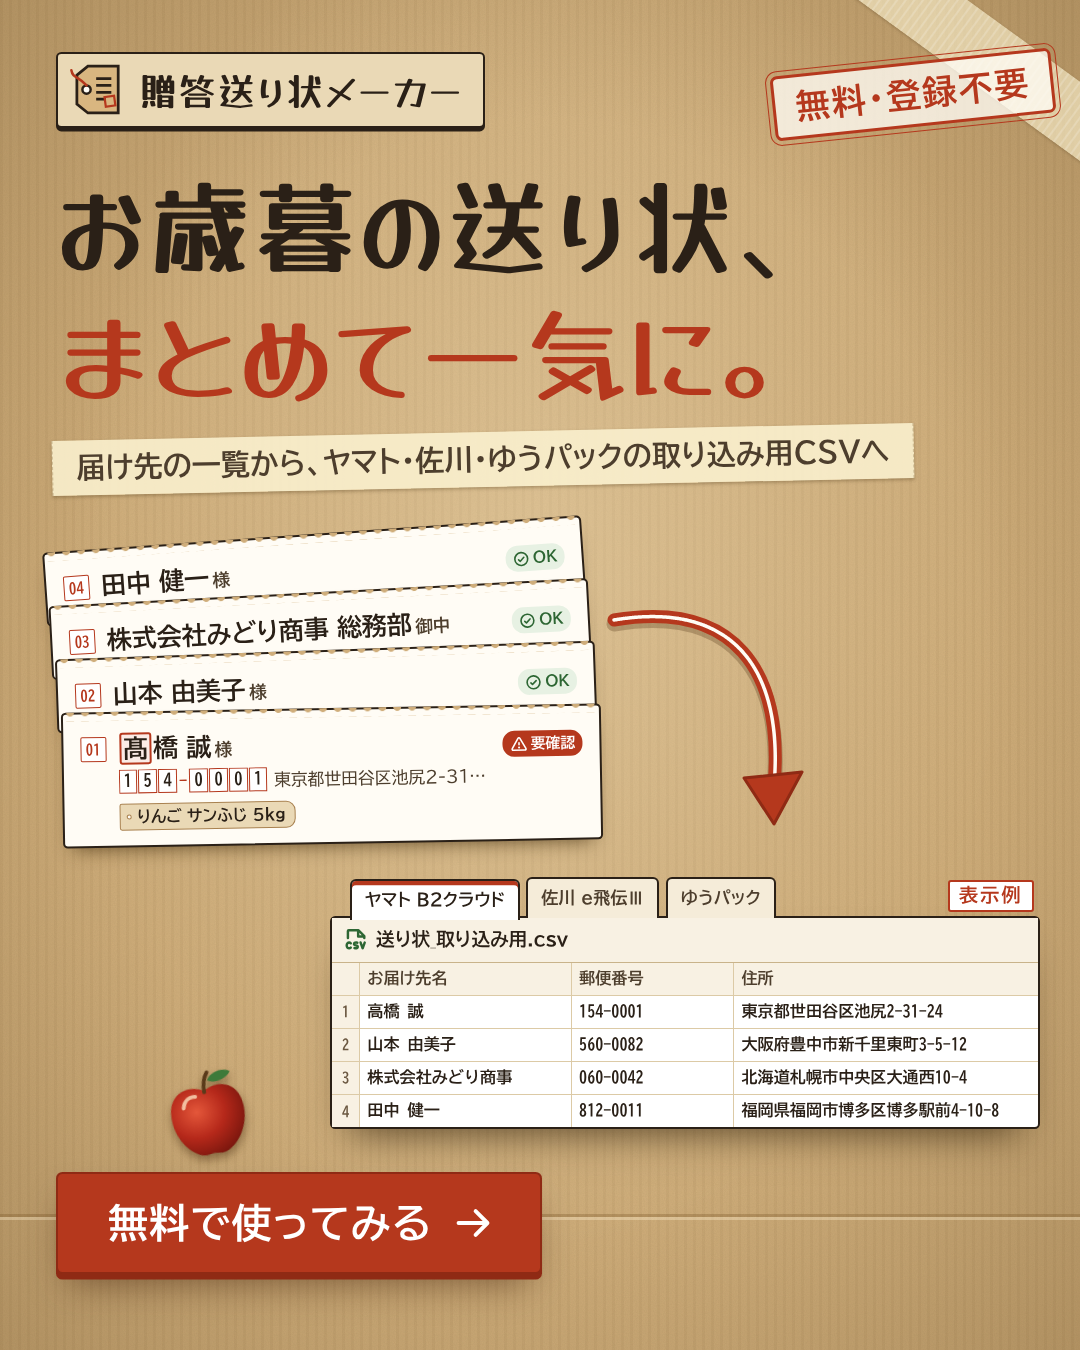
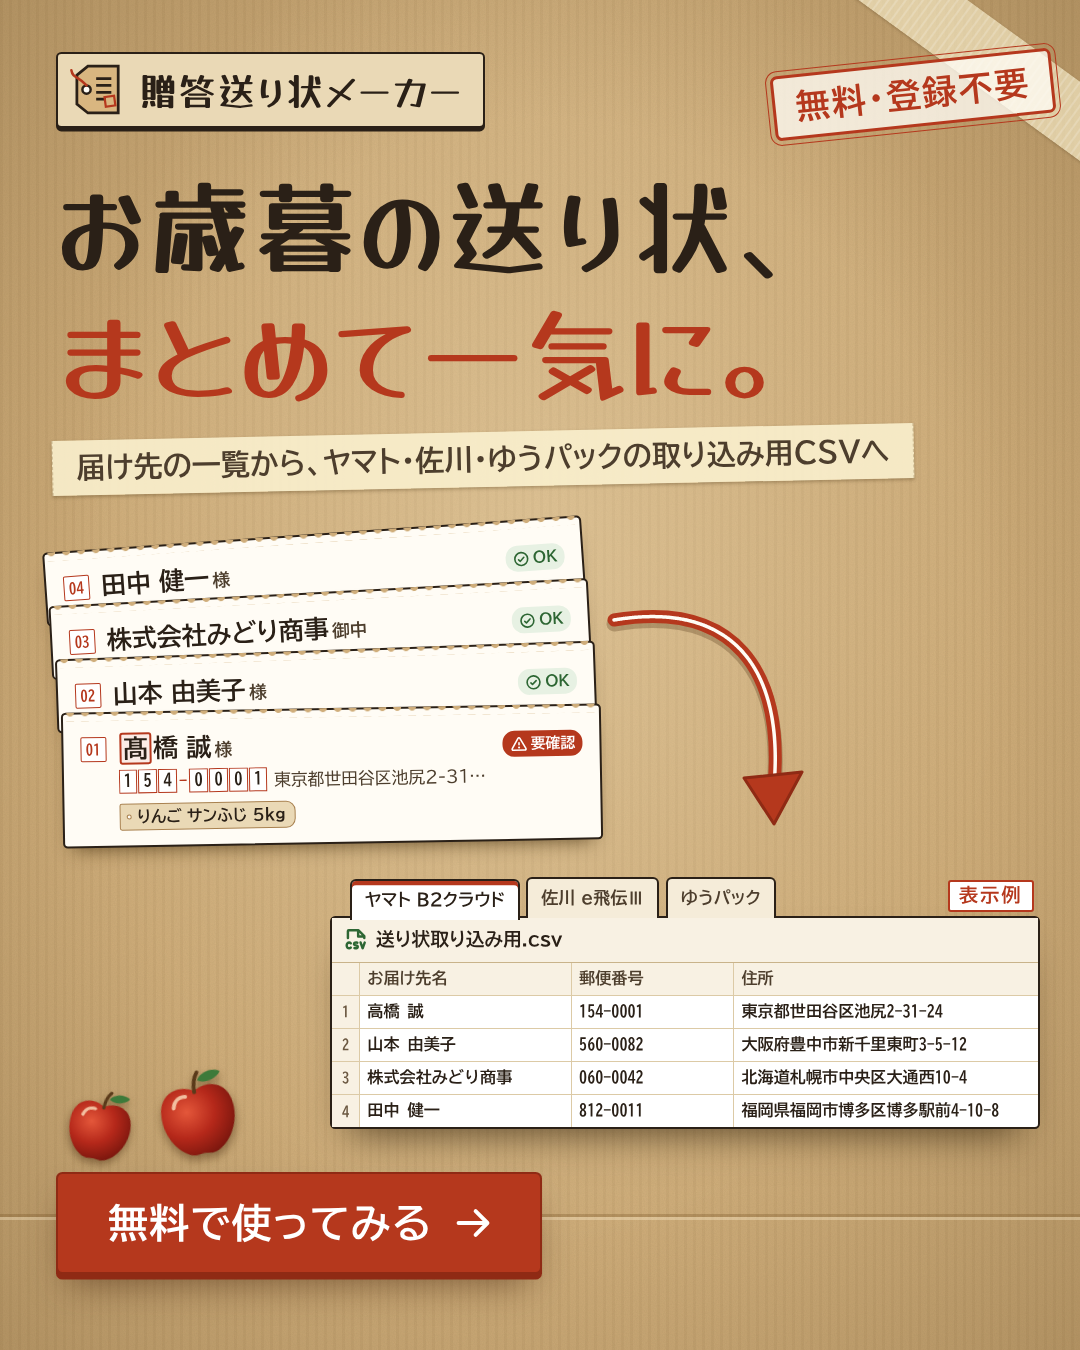
送り状ツールのMeta広告画像（2案×3サイズ）と広告文を仕上げ
Claude-Session: https://claude.ai/code/session_01HfaK55x2ryAqdk16Bxvowi

diff --git a/ads/creatives/src/okurijo-B-feed.html b/ads/creatives/src/okurijo-B-feed.html
@@ -152,7 +152,7 @@ html, body { width: 1080px; height: 1350px; }
   <div><span class="badge ok"><svg class="i" viewBox="0 0 256 256" aria-hidden="true"><path d="M176.49,95.51a12,12,0,0,1,0,17l-56,56a12,12,0,0,1-17,0l-24-24a12,12,0,1,1,17-17L112,143l47.51-47.52A12,12,0,0,1,176.49,95.51ZM236,128A108,108,0,1,1,128,20,108.12,108.12,0,0,1,236,128Zm-24,0a84,84,0,1,0-84,84A84.09,84.09,0,0,0,212,128Z"/></svg>OK</span></div>
 </div><div class="rec" style="left:50px;top:592px;width:540px;font-size:24px;transform:rotate(-3deg);z-index:2;">
   <span class="rno">03</span>
-  <div style="min-width:0"><b class="rname">株式会社みどり商事 総務部<small>御中</small></b>
+  <div style="min-width:0"><b class="rname">株式会社みどり商事<small>御中</small></b>
   
   </div>
   <div><span class="badge ok"><svg class="i" viewBox="0 0 256 256" aria-hidden="true"><path d="M176.49,95.51a12,12,0,0,1,0,17l-56,56a12,12,0,0,1-17,0l-24-24a12,12,0,1,1,17-17L112,143l47.51-47.52A12,12,0,0,1,176.49,95.51ZM236,128A108,108,0,1,1,128,20,108.12,108.12,0,0,1,236,128Zm-24,0a84,84,0,1,0-84,84A84.09,84.09,0,0,0,212,128Z"/></svg>OK</span></div>
@@ -177,11 +177,17 @@ html, body { width: 1080px; height: 1350px; }
 </svg>
 <div class="sheet" style="left:330px;top:916px;width:710px;font-size:26px;">
   <div class="sheet-tabs"><span class="stab on">ヤマト B2クラウド</span><span class="stab">佐川 e飛伝Ⅲ</span><span class="stab">ゆうパック</span></div>
-  <div class="sheet-h"><svg class="i" viewBox="0 0 256 256" aria-hidden="true"><path d="M48,180c0,8.67,5.49,16,12,16a10.27,10.27,0,0,0,7.33-3.43,12,12,0,1,1,17.34,16.6A34,34,0,0,1,60,220C40.15,220,24,202,24,180s16.15-40,36-40a34,34,0,0,1,24.67,10.830,12,12,0,1,1-17.34,16.6A10.27,10.27,0,0,0,60,164C53.49,164,48,171.31,48,180Zm97.51-5.71c-5.13-3.45-11.33-5.24-16.8-6.82a79.5,79.5,0,0,1-7.91-2.59c2.45-1.18,9.71-1.3,16.070.33A12,12,0,0,0,143,142a69.24,69.24,0,0,0-12-1.86c-9.93-.66-18,1.08-24.1,5.17a24.45,24.45,0,0,0-10.69,17.76c-1.1,8.74,2.48,16.27,10.11,21.19,4.78,3.09,10.36,4.7,15.75,6.26,3,.89,7.94,2.3,9.88,3.53a2,2,0,0,1-.22.71c-1.36,1.55-9.57,1.79-16.39-.06a12,12,0,0,0-6.45,23.11A63.73,63.730,0,0,0,125.09,220c6.47,0,13.74-1.17,19.74-5.15a24.73,24.73,0,0,0,10.95-18C157,187.53,153.32,179.53,145.51,174.27ZM216,140.68A12,12,0,0,0,200.7,148L192,172.3,183.3,148A12,12,0,1,0,160.7,156l20,56a12,12,0,0,0,22.6,0l20-56A12,12,0,0,0,216,140.68ZM36,108V40A20,20,0,0,1,56,20h96a12,12,0,0,1,8.49,3.51l56,56A12,12,0,0,1,220,88v20a12,12,0,1,1-24,0v-4H148a12,12,0,0,1-12-12V44H60v64a12,12,0,1,1-24,0ZM160,80h23L160,57Z"/></svg>送り状_取り込み用.csv</div>
+  <div class="sheet-h"><svg class="i" viewBox="0 0 256 256" aria-hidden="true"><path d="M48,180c0,8.67,5.49,16,12,16a10.27,10.27,0,0,0,7.33-3.43,12,12,0,1,1,17.34,16.6A34,34,0,0,1,60,220C40.15,220,24,202,24,180s16.15-40,36-40a34,34,0,0,1,24.67,10.830,12,12,0,1,1-17.34,16.6A10.27,10.27,0,0,0,60,164C53.49,164,48,171.31,48,180Zm97.51-5.71c-5.13-3.45-11.33-5.24-16.8-6.82a79.5,79.5,0,0,1-7.91-2.59c2.45-1.18,9.71-1.3,16.070.33A12,12,0,0,0,143,142a69.24,69.24,0,0,0-12-1.86c-9.93-.66-18,1.08-24.1,5.17a24.45,24.45,0,0,0-10.69,17.76c-1.1,8.74,2.48,16.27,10.11,21.19,4.78,3.09,10.36,4.7,15.75,6.26,3,.89,7.94,2.3,9.88,3.53a2,2,0,0,1-.22.71c-1.36,1.55-9.57,1.79-16.39-.06a12,12,0,0,0-6.45,23.11A63.73,63.730,0,0,0,125.09,220c6.47,0,13.74-1.17,19.74-5.15a24.73,24.73,0,0,0,10.95-18C157,187.53,153.32,179.53,145.51,174.27ZM216,140.68A12,12,0,0,0,200.7,148L192,172.3,183.3,148A12,12,0,1,0,160.7,156l20,56a12,12,0,0,0,22.6,0l20-56A12,12,0,0,0,216,140.68ZM36,108V40A20,20,0,0,1,56,20h96a12,12,0,0,1,8.49,3.51l56,56A12,12,0,0,1,220,88v20a12,12,0,1,1-24,0v-4H148a12,12,0,0,1-12-12V44H60v64a12,12,0,1,1-24,0ZM160,80h23L160,57Z"/></svg>送り状取り込み用.csv</div>
   <table><tr><th class="n" style="width:1.9em"></th><th style="width:30%">お届け先名</th><th style="width:23%">郵便番号</th><th>住所</th></tr><tr><td class="n">1</td><td>高橋 誠</td><td>154-0001</td><td>東京都世田谷区池尻2-31-24</td></tr><tr><td class="n">2</td><td>山本 由美子</td><td>560-0082</td><td>大阪府豊中市新千里東町3-5-12</td></tr><tr><td class="n">3</td><td>株式会社みどり商事</td><td>060-0042</td><td>北海道札幌市中央区大通西10-4</td></tr><tr><td class="n">4</td><td>田中 健一</td><td>812-0011</td><td>福岡県福岡市博多区博多駅前4-10-8</td></tr></table>
 </div>
 <span class="rei" style="left:948px;top:880px">表示例</span>
-<svg class="abs" style="left:160px;top:1066px;width:96px;height:96px;transform:rotate(-10deg);filter:drop-shadow(0 5.76px 4.800000000000001px rgba(60,30,5,.45))" viewBox="0 0 100 100">
+<svg class="abs" style="left:60px;top:1086px;width:80px;height:80px;transform:rotate(12deg);filter:drop-shadow(0 4.8px 4px rgba(60,30,5,.45))" viewBox="0 0 100 100">
+  <defs><radialGradient id="gf0" cx="35%" cy="35%" r="70%"><stop offset="0" stop-color="#e4573a"/><stop offset=".55" stop-color="#b5281a"/><stop offset="1" stop-color="#7d170e"/></radialGradient></defs>
+  <path d="M50 26 C 40 18, 14 18, 12 46 C 10 72, 30 94, 44 92 C 48 91, 52 91, 56 92 C 70 94, 90 72, 88 46 C 86 18, 60 18, 50 26 Z" fill="url(#gf0)"/>
+  <path d="M26 40 C 28 32, 34 29, 40 30" stroke="rgba(255,235,200,.75)" stroke-width="4" fill="none" stroke-linecap="round"/>
+  <path d="M50 27 C 50 18, 52 12, 56 7" stroke="#5a3a1a" stroke-width="4" fill="none" stroke-linecap="round"/>
+  <path d="M55 15 C 62 5, 76 6, 80 10 C 74 18, 62 20, 55 15 Z" fill="#3d7a3a"/>
+</svg><svg class="abs" style="left:150px;top:1066px;width:96px;height:96px;transform:rotate(-10deg);filter:drop-shadow(0 5.76px 4.800000000000001px rgba(60,30,5,.45))" viewBox="0 0 100 100">
   <defs><radialGradient id="gf1" cx="35%" cy="35%" r="70%"><stop offset="0" stop-color="#e4573a"/><stop offset=".55" stop-color="#b5281a"/><stop offset="1" stop-color="#7d170e"/></radialGradient></defs>
   <path d="M50 26 C 40 18, 14 18, 12 46 C 10 72, 30 94, 44 92 C 48 91, 52 91, 56 92 C 70 94, 90 72, 88 46 C 86 18, 60 18, 50 26 Z" fill="url(#gf1)"/>
   <path d="M26 40 C 28 32, 34 29, 40 30" stroke="rgba(255,235,200,.75)" stroke-width="4" fill="none" stroke-linecap="round"/>

diff --git a/ads/creatives/src/okurijo-B-square.html b/ads/creatives/src/okurijo-B-square.html
@@ -151,7 +151,7 @@ html, body { width: 1080px; height: 1080px; }
   <div><span class="badge ok"><svg class="i" viewBox="0 0 256 256" aria-hidden="true"><path d="M176.49,95.51a12,12,0,0,1,0,17l-56,56a12,12,0,0,1-17,0l-24-24a12,12,0,1,1,17-17L112,143l47.51-47.52A12,12,0,0,1,176.49,95.51ZM236,128A108,108,0,1,1,128,20,108.12,108.12,0,0,1,236,128Zm-24,0a84,84,0,1,0-84,84A84.09,84.09,0,0,0,212,128Z"/></svg>OK</span></div>
 </div><div class="rec" style="left:46px;top:548px;width:470px;font-size:25px;transform:rotate(-3deg);z-index:2;">
   <span class="rno">03</span>
-  <div style="min-width:0"><b class="rname">株式会社みどり商事 総務部<small>御中</small></b>
+  <div style="min-width:0"><b class="rname">株式会社みどり商事<small>御中</small></b>
   
   </div>
   <div><span class="badge ok"><svg class="i" viewBox="0 0 256 256" aria-hidden="true"><path d="M176.49,95.51a12,12,0,0,1,0,17l-56,56a12,12,0,0,1-17,0l-24-24a12,12,0,1,1,17-17L112,143l47.51-47.52A12,12,0,0,1,176.49,95.51ZM236,128A108,108,0,1,1,128,20,108.12,108.12,0,0,1,236,128Zm-24,0a84,84,0,1,0-84,84A84.09,84.09,0,0,0,212,128Z"/></svg>OK</span></div>
@@ -176,7 +176,7 @@ html, body { width: 1080px; height: 1080px; }
 </svg>
 <div class="sheet" style="left:560px;top:560px;width:480px;font-size:25px;">
   <div class="sheet-tabs"><span class="stab on">ヤマト B2クラウド</span><span class="stab">佐川 e飛伝Ⅲ</span><span class="stab">ゆうパック</span></div>
-  <div class="sheet-h"><svg class="i" viewBox="0 0 256 256" aria-hidden="true"><path d="M48,180c0,8.67,5.49,16,12,16a10.27,10.27,0,0,0,7.33-3.43,12,12,0,1,1,17.34,16.6A34,34,0,0,1,60,220C40.15,220,24,202,24,180s16.15-40,36-40a34,34,0,0,1,24.67,10.830,12,12,0,1,1-17.34,16.6A10.27,10.27,0,0,0,60,164C53.49,164,48,171.31,48,180Zm97.51-5.71c-5.13-3.45-11.33-5.24-16.8-6.82a79.5,79.5,0,0,1-7.91-2.59c2.45-1.18,9.71-1.3,16.070.33A12,12,0,0,0,143,142a69.24,69.24,0,0,0-12-1.86c-9.93-.66-18,1.08-24.1,5.17a24.45,24.45,0,0,0-10.69,17.76c-1.1,8.74,2.48,16.27,10.11,21.19,4.78,3.09,10.36,4.7,15.75,6.26,3,.89,7.94,2.3,9.88,3.53a2,2,0,0,1-.22.71c-1.36,1.55-9.57,1.79-16.39-.06a12,12,0,0,0-6.45,23.11A63.73,63.730,0,0,0,125.09,220c6.47,0,13.74-1.17,19.74-5.15a24.73,24.73,0,0,0,10.95-18C157,187.53,153.32,179.53,145.51,174.27ZM216,140.68A12,12,0,0,0,200.7,148L192,172.3,183.3,148A12,12,0,1,0,160.7,156l20,56a12,12,0,0,0,22.6,0l20-56A12,12,0,0,0,216,140.68ZM36,108V40A20,20,0,0,1,56,20h96a12,12,0,0,1,8.49,3.51l56,56A12,12,0,0,1,220,88v20a12,12,0,1,1-24,0v-4H148a12,12,0,0,1-12-12V44H60v64a12,12,0,1,1-24,0ZM160,80h23L160,57Z"/></svg>送り状_取り込み用.csv</div>
+  <div class="sheet-h"><svg class="i" viewBox="0 0 256 256" aria-hidden="true"><path d="M48,180c0,8.67,5.49,16,12,16a10.27,10.27,0,0,0,7.33-3.43,12,12,0,1,1,17.34,16.6A34,34,0,0,1,60,220C40.15,220,24,202,24,180s16.15-40,36-40a34,34,0,0,1,24.67,10.830,12,12,0,1,1-17.34,16.6A10.27,10.27,0,0,0,60,164C53.49,164,48,171.31,48,180Zm97.51-5.71c-5.13-3.45-11.33-5.24-16.8-6.82a79.5,79.5,0,0,1-7.91-2.59c2.45-1.18,9.71-1.3,16.070.33A12,12,0,0,0,143,142a69.24,69.24,0,0,0-12-1.86c-9.93-.66-18,1.08-24.1,5.17a24.45,24.45,0,0,0-10.69,17.76c-1.1,8.74,2.48,16.27,10.11,21.19,4.78,3.09,10.36,4.7,15.75,6.26,3,.89,7.94,2.3,9.88,3.53a2,2,0,0,1-.22.71c-1.36,1.55-9.57,1.79-16.39-.06a12,12,0,0,0-6.45,23.11A63.73,63.730,0,0,0,125.09,220c6.47,0,13.74-1.17,19.74-5.15a24.73,24.73,0,0,0,10.95-18C157,187.53,153.32,179.53,145.51,174.27ZM216,140.68A12,12,0,0,0,200.7,148L192,172.3,183.3,148A12,12,0,1,0,160.7,156l20,56a12,12,0,0,0,22.6,0l20-56A12,12,0,0,0,216,140.68ZM36,108V40A20,20,0,0,1,56,20h96a12,12,0,0,1,8.49,3.51l56,56A12,12,0,0,1,220,88v20a12,12,0,1,1-24,0v-4H148a12,12,0,0,1-12-12V44H60v64a12,12,0,1,1-24,0ZM160,80h23L160,57Z"/></svg>送り状取り込み用.csv</div>
   <table><tr><th class="n" style="width:1.9em"></th><th style="width:34%">お届け先名</th><th style="width:27%">郵便番号</th><th>住所</th></tr><tr><td class="n">1</td><td>高橋 誠</td><td>154-0001</td><td>東京都世田谷区池尻2-31-24</td></tr><tr><td class="n">2</td><td>山本 由美子</td><td>560-0082</td><td>大阪府豊中市新千里東町3-5-12</td></tr><tr><td class="n">3</td><td>株式会社みどり商事</td><td>060-0042</td><td>北海道札幌市中央区大通西10-4</td></tr><tr><td class="n">4</td><td>田中 健一</td><td>812-0011</td><td>福岡県福岡市博多区博多駅前4-10-8</td></tr><tr><td class="n">5</td><td>中村 さくら</td><td>900-0015</td><td>沖縄県那覇市久茂地2-22-10</td></tr></table>
 </div>
 <span class="rei" style="left:56px;top:450px">表示例</span>

diff --git a/ads/creatives/src/okurijo-B-story.html b/ads/creatives/src/okurijo-B-story.html
@@ -166,7 +166,7 @@ html, body { width: 1080px; height: 1920px; }
   <div><span class="badge ok"><svg class="i" viewBox="0 0 256 256" aria-hidden="true"><path d="M176.49,95.51a12,12,0,0,1,0,17l-56,56a12,12,0,0,1-17,0l-24-24a12,12,0,1,1,17-17L112,143l47.51-47.52A12,12,0,0,1,176.49,95.51ZM236,128A108,108,0,1,1,128,20,108.12,108.12,0,0,1,236,128Zm-24,0a84,84,0,1,0-84,84A84.09,84.09,0,0,0,212,128Z"/></svg>OK</span></div>
 </div><div class="rec" style="left:62px;top:910px;width:640px;font-size:29px;transform:rotate(-3deg);z-index:2;">
   <span class="rno">03</span>
-  <div style="min-width:0"><b class="rname">株式会社みどり商事 総務部<small>御中</small></b>
+  <div style="min-width:0"><b class="rname">株式会社みどり商事<small>御中</small></b>
   
   </div>
   <div><span class="badge ok"><svg class="i" viewBox="0 0 256 256" aria-hidden="true"><path d="M176.49,95.51a12,12,0,0,1,0,17l-56,56a12,12,0,0,1-17,0l-24-24a12,12,0,1,1,17-17L112,143l47.51-47.52A12,12,0,0,1,176.49,95.51ZM236,128A108,108,0,1,1,128,20,108.12,108.12,0,0,1,236,128Zm-24,0a84,84,0,1,0-84,84A84.09,84.09,0,0,0,212,128Z"/></svg>OK</span></div>
@@ -191,7 +191,7 @@ html, body { width: 1080px; height: 1920px; }
 </svg>
 <div class="sheet" style="left:86px;top:1300px;width:908px;font-size:28px;">
   <div class="sheet-tabs"><span class="stab on">ヤマト B2クラウド</span><span class="stab">佐川 e飛伝Ⅲ</span><span class="stab">ゆうパック</span></div>
-  <div class="sheet-h"><svg class="i" viewBox="0 0 256 256" aria-hidden="true"><path d="M48,180c0,8.67,5.49,16,12,16a10.27,10.27,0,0,0,7.33-3.43,12,12,0,1,1,17.34,16.6A34,34,0,0,1,60,220C40.15,220,24,202,24,180s16.15-40,36-40a34,34,0,0,1,24.67,10.830,12,12,0,1,1-17.34,16.6A10.27,10.27,0,0,0,60,164C53.49,164,48,171.31,48,180Zm97.51-5.71c-5.13-3.45-11.33-5.24-16.8-6.82a79.5,79.5,0,0,1-7.91-2.59c2.45-1.18,9.71-1.3,16.070.33A12,12,0,0,0,143,142a69.24,69.24,0,0,0-12-1.86c-9.93-.66-18,1.08-24.1,5.17a24.45,24.45,0,0,0-10.69,17.76c-1.1,8.74,2.48,16.27,10.11,21.19,4.78,3.09,10.36,4.7,15.75,6.26,3,.89,7.94,2.3,9.88,3.53a2,2,0,0,1-.22.71c-1.36,1.55-9.57,1.79-16.39-.06a12,12,0,0,0-6.45,23.11A63.73,63.730,0,0,0,125.09,220c6.47,0,13.74-1.17,19.74-5.15a24.73,24.73,0,0,0,10.95-18C157,187.53,153.32,179.53,145.51,174.27ZM216,140.68A12,12,0,0,0,200.7,148L192,172.3,183.3,148A12,12,0,1,0,160.7,156l20,56a12,12,0,0,0,22.6,0l20-56A12,12,0,0,0,216,140.68ZM36,108V40A20,20,0,0,1,56,20h96a12,12,0,0,1,8.49,3.51l56,56A12,12,0,0,1,220,88v20a12,12,0,1,1-24,0v-4H148a12,12,0,0,1-12-12V44H60v64a12,12,0,1,1-24,0ZM160,80h23L160,57Z"/></svg>送り状_取り込み用.csv</div>
+  <div class="sheet-h"><svg class="i" viewBox="0 0 256 256" aria-hidden="true"><path d="M48,180c0,8.67,5.49,16,12,16a10.27,10.27,0,0,0,7.33-3.43,12,12,0,1,1,17.34,16.6A34,34,0,0,1,60,220C40.15,220,24,202,24,180s16.15-40,36-40a34,34,0,0,1,24.67,10.830,12,12,0,1,1-17.34,16.6A10.27,10.27,0,0,0,60,164C53.49,164,48,171.31,48,180Zm97.51-5.71c-5.13-3.45-11.33-5.24-16.8-6.82a79.5,79.5,0,0,1-7.91-2.59c2.45-1.18,9.71-1.3,16.070.33A12,12,0,0,0,143,142a69.24,69.24,0,0,0-12-1.86c-9.93-.66-18,1.08-24.1,5.17a24.45,24.45,0,0,0-10.69,17.76c-1.1,8.74,2.48,16.27,10.11,21.19,4.78,3.09,10.36,4.7,15.75,6.26,3,.89,7.94,2.3,9.88,3.53a2,2,0,0,1-.22.71c-1.36,1.55-9.57,1.79-16.39-.06a12,12,0,0,0-6.45,23.11A63.73,63.730,0,0,0,125.09,220c6.47,0,13.74-1.17,19.74-5.15a24.73,24.73,0,0,0,10.95-18C157,187.53,153.32,179.53,145.51,174.27ZM216,140.68A12,12,0,0,0,200.7,148L192,172.3,183.3,148A12,12,0,1,0,160.7,156l20,56a12,12,0,0,0,22.6,0l20-56A12,12,0,0,0,216,140.68ZM36,108V40A20,20,0,0,1,56,20h96a12,12,0,0,1,8.49,3.51l56,56A12,12,0,0,1,220,88v20a12,12,0,1,1-24,0v-4H148a12,12,0,0,1-12-12V44H60v64a12,12,0,1,1-24,0ZM160,80h23L160,57Z"/></svg>送り状取り込み用.csv</div>
   <table><tr><th class="n" style="width:1.9em"></th><th style="width:28%">お届け先名</th><th style="width:21%">郵便番号</th><th>住所</th></tr><tr><td class="n">1</td><td>高橋 誠</td><td>154-0001</td><td>東京都世田谷区池尻2-31-24</td></tr><tr><td class="n">2</td><td>山本 由美子</td><td>560-0082</td><td>大阪府豊中市新千里東町3-5-12</td></tr><tr><td class="n">3</td><td>株式会社みどり商事</td><td>060-0042</td><td>北海道札幌市中央区大通西10-4</td></tr><tr><td class="n">4</td><td>田中 健一</td><td>812-0011</td><td>福岡県福岡市博多区博多駅前4-10-8</td></tr></table>
 </div>
 <span class="rei" style="left:56px;top:804px">表示例</span>

diff --git a/ads/creatives/src/okurijo-build.js b/ads/creatives/src/okurijo-build.js
@@ -202,7 +202,7 @@ function sheet(x, y, w, fs, rows, opt = {}) {
   const body = rows.map((r, k) => `<tr><td class="n">${k + 1}</td><td>${r[0]}</td><td>${r[1]}</td><td>${r[2]}</td></tr>`).join("");
   return `<div class="sheet" style="left:${x}px;top:${y}px;width:${w}px;font-size:${fs}px;${opt.rot ? `transform:rotate(${opt.rot}deg);` : ""}">
   ${opt.tabs === false ? "" : tabs}
-  <div class="sheet-h">${ic("csv")}${opt.file || "送り状_取り込み用.csv"}</div>
+  <div class="sheet-h">${ic("csv")}${opt.file || "送り状取り込み用.csv"}</div>
   <table>${head}${body}</table>
 </div>`;
 }
@@ -327,7 +327,7 @@ ${cta(86, 1550, 46, "width:908px")}
 // ===== B: 束になった送り状 → CSV（運送会社のタブ） =====
 const HL_B = (fs, x, y) => `<h1 class="abs hl" style="left:${x}px;top:${y}px;font-size:${fs}px"><span class="ln">お歳暮の送り状、</span><span class="ln"><em>まとめて一気に。</em></span></h1>`;
 const stack = (x, y, w, fs, dy, list, rots) => list.map((r, k) => rec(r, x + k * 6, y + k * dy, w, fs, { noIss: true, noTag: k < list.length - 1, noAddr: k < list.length - 1, rot: rots[k], z: k + 1 })).join("");
-const STACK = [R.tanaka, R.midori, R.yamamoto, R.takahashi];
+const STACK = [R.tanaka, Object.assign({}, R.midori, { name: "株式会社みどり商事" }), R.yamamoto, R.takahashi];
 
 designs["B-feed"] = [1080, 1350, () => `
 <div class="gum" style="right:-70px;top:24px;width:320px;height:64px;transform:rotate(36deg)"></div>
@@ -340,7 +340,7 @@ ${stack(44, 534, 540, 24, 58, STACK, [-4, -3, -2, -1])}
 ${cord(604, 590, 220, 260, "M10 30 C 130 10, 180 80, 170 196", "M140 188 L170 234 L198 182 Z")}
 ${sheet(330, 916, 710, 26, ROWS.slice(0, 4), { c1: 30, c2: 23 })}
 ${rei(948, 880)}
-${apple(160, 1066, 96, -10, "f1")}
+${apple(60, 1086, 80, 12, "f0")}${apple(150, 1066, 96, -10, "f1")}
 ${cta(56, 1172, 40)}
 `];
 

diff --git a/ads/okurijo-meta.md b/ads/okurijo-meta.md
@@ -1,0 +1,86 @@
+# 贈答送り状メーカー Meta 広告（Instagram / Facebook）
+
+- 対象: 直販している農家・果樹園（お歳暮・贈答の注文を LINE・電話・FAX で受け、1人のお客さまから複数の届け先が来る）
+- 配信期間の目安: 今〜12月中旬
+- ツール: https://lp.site-forge.jp/app/okurijo/ （無料・登録不要・入力内容はブラウザに保存）
+- 画像の元ファイル: `ads/creatives/src/okurijo-build.js`（文言を直したら `NODE_PATH=$(npm root -g) node ads/creatives/src/okurijo-build.js` で HTML と PNG を作り直す）
+
+| 配置 | コンセプトA | コンセプトB |
+|---|---|---|
+| フィード 4:5（1080×1350） | `ads/creatives/okurijo-A-feed.png` | `ads/creatives/okurijo-B-feed.png` |
+| 正方形 1:1（1080×1080） | `ads/creatives/okurijo-A-square.png` | `ads/creatives/okurijo-B-square.png` |
+| ストーリーズ・リール 9:16（1080×1920） | `ads/creatives/okurijo-A-story.png` | `ads/creatives/okurijo-B-story.png` |
+
+画像の中の注文・届け先・住所は、ツールのサンプル注文と同じ架空のものです。画面の絵には「表示例」と入れています。
+
+---
+
+## コンセプトA「LINEの贈答注文を、打ち直さずに送り状へ。」
+
+LINE の吹き出しに崩れた書き方で並んだ届け先が、送り状カード（〒の枠、品名タグ、「使えない字」「文字数」の指摘つき）に変わる絵。
+
+### メインテキスト
+
+1. LINEや電話で届いたお歳暮の注文、送り状に一件ずつ打ち直していませんか。注文の文面を貼りつけると届け先の一覧になり、ヤマト B2クラウド・佐川 e飛伝Ⅲ・ゆうパックの取り込み用CSVを作れます。無料・登録不要です。（108字）
+2. LINEの注文の文面をコピーして貼りつけるだけ。届け先ごとに名前・郵便番号・住所を並べ、送り状に使えない字や長すぎる住所も知らせます。名前や住所はブラウザの外に送りません。無料・登録不要。（94字）
+3. お客さま1人から届け先がいくつも届く贈答の注文に。LINEの文面を貼りつけて確かめたら、そのまま送り状ソフトの取り込み用CSVへ。住所を手で写す手間を減らせます。ヤマト・佐川・ゆうパック用、無料・登録不要。（103字）
+
+### 見出し
+
+1. LINEの注文から送り状CSVへ
+2. 住所の打ち直しを減らす無料ツール
+3. 無料・登録不要の送り状CSV作成
+
+### 説明
+
+ヤマト・佐川・ゆうパック用CSVを無料で
+
+### CTA ボタン
+
+今すぐ利用
+
+### リンク先 URL
+
+```
+https://lp.site-forge.jp/app/okurijo/?utm_source=meta&utm_medium=paid_social&utm_campaign=okurijo&utm_content=A
+```
+
+---
+
+## コンセプトB「お歳暮の送り状、まとめて一気に。」
+
+送り状カードの束が、「ヤマト B2クラウド／佐川 e飛伝Ⅲ／ゆうパック」のタブがついた取り込み用 CSV の表になる絵。
+
+### メインテキスト
+
+1. お歳暮の時期、届け先の多い注文の送り状づくりに。届け先の一覧から、ヤマト B2クラウド・佐川 e飛伝Ⅲ・ゆうパックにまとめて取り込めるCSVを作ります。無料・登録不要で、すぐ使えます。（92字）
+2. 送り状を1枚ずつ手入力する前に。注文ごとの届け先をまとめて、運送会社の一括取り込み用CSVにします。使えない字・長すぎる住所・郵便番号の不備は出力前に知らせます。名前や住所はブラウザの外に送りません。（100字）
+3. 12月の発送が重なる前に、送り状の準備をまとめて。LINEや電話で受けた贈答の注文から、届け先の一覧とヤマト・佐川・ゆうパック用CSV、注文控えを作れます。無料・登録不要。（86字）
+
+### 見出し
+
+1. お歳暮の送り状、まとめて一気に
+2. 送り状CSVを無料でまとめて作成
+3. ヤマト・佐川・ゆうパックに対応
+
+### 説明
+
+登録不要。ブラウザだけで使えます
+
+### CTA ボタン
+
+今すぐ利用
+
+### リンク先 URL
+
+```
+https://lp.site-forge.jp/app/okurijo/?utm_source=meta&utm_medium=paid_social&utm_campaign=okurijo&utm_content=B
+```
+
+---
+
+## メモ
+
+- CTA は A・B とも「今すぐ利用」にそろえる。リンク先は登録なしですぐ使えるツールそのもので、ボタンを変えるとコンセプトの比較がしにくくなるため。クリック率が低ければ、あとで「詳しくはこちら」を試す。
+- 「名前や住所はブラウザの外に送りません」は、ツール画面の説明と同じ内容（郵便番号から住所を調べるときだけ、郵便番号7けただけを住所検索サービスに問い合わせる。設定で止められる）。これ以上強い言い方（「完全に安全」など）はしない。
+- 使わない表現: 利用者数・実績・お客様の声・「No.1」・「必ず」・「〇分で終わる」などの数字。運送会社のロゴも使わない（名前の文字だけ）。
